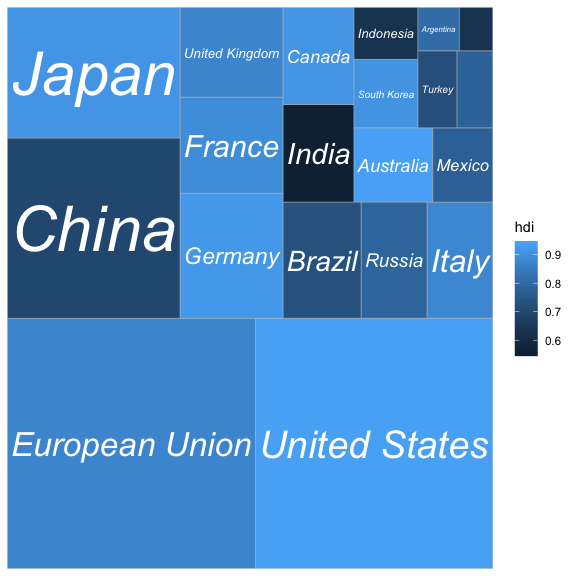
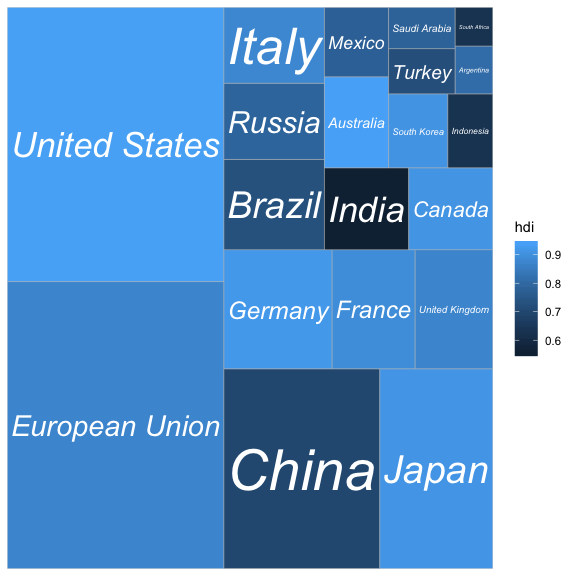
v2.5.0.9006 fix bug in subgroup layouts #29

diff --git a/README.md b/README.md
@@ -105,11 +105,6 @@ ggplot(G20, aes(area = gdp_mil_usd, fill = hdi, label = country)) +
 
 ![](man/figures/README-geom_treemap_text-1.png)<!-- -->
 
-Note that the top-rightmost tile, ‘South Africa’, is not labelled.
-`geom_treemap_text` will hide text labels that cannot fit a tile without
-being shrunk below a minimum size, by default 4 points. This can be
-adjusted with the `min.size` argument.
-
 ## Subgrouping tiles
 
 `geom_treemap` supports subgrouping of tiles within a treemap by passing
@@ -130,6 +125,10 @@ ggplot(G20, aes(area = gdp_mil_usd, fill = hdi, label = country,
 ```
 
 ![](man/figures/README-subgrouped_treemap-1.png)<!-- -->
+
+Note that Argentina is not labelled. `geom_treemap_text` will hide text
+labels that cannot fit a tile without being shrunk below a minimum size,
+by default 4 points. This can be adjusted with the `min.size` argument.
 
 Up to three nested levels of subgrouping are supported with the
 `subgroup2` and `subgroup3` aesthetics. Borders and text labels for

diff --git a/NEWS.md b/NEWS.md
@@ -1,3 +1,9 @@
+# v2.5.0.9006
+
+## Bug fixes
+
+- Fixed bug in handling of subgroups in the 'squarified' algorithm, which should result in more aesthetically pleasing layouts
+
 # v2.5.0.9005
 
 ## Major changes
